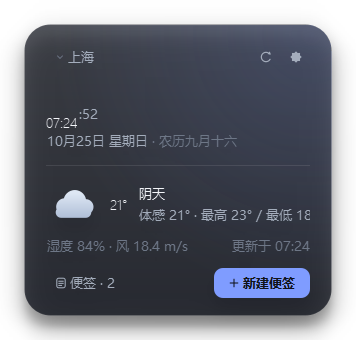
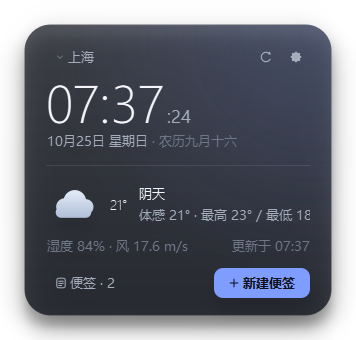
fix: align seconds with the clock baseline
Draw the clock digits and seconds with one shared baseline via a small custom widget instead of two QLabels, and release 1.0.1.

diff --git a/app/ui/clock_widget.py b/app/ui/clock_widget.py
@@ -3,14 +3,24 @@ from __future__ import annotations
 
 from datetime import datetime
 
-from PySide6.QtCore import QEasingCurve, QPoint, QPropertyAnimation, QSize, Qt, QTimer, Signal
-from PySide6.QtGui import QColor, QFont, QPainter, QPixmap
+from PySide6.QtCore import (
+    QEasingCurve,
+    QPoint,
+    QPointF,
+    QPropertyAnimation,
+    QSize,
+    Qt,
+    QTimer,
+    Signal,
+)
+from PySide6.QtGui import QColor, QFont, QFontMetrics, QPainter, QPixmap
 from PySide6.QtWidgets import (
     QGraphicsDropShadowEffect,
     QHBoxLayout,
     QLabel,
     QMenu,
     QPushButton,
+    QSizePolicy,
     QVBoxLayout,
     QWidget,
 )
@@ -49,6 +59,84 @@ def _font(size: float, weight: QFont.Weight = QFont.Normal,
     font.setPointSizeF(size)
     font.setWeight(weight)
     return font
+
+
+class TimeDisplay(QWidget):
+    """Big time plus seconds, drawn on one shared baseline.
+
+    Two QLabels cannot be reliably baseline-aligned: Qt aligns boxes, not
+    text baselines, so the smaller seconds label floats upward. Painting both
+    runs with the same baseline is exact and also bypasses app-level QSS fonts.
+    """
+
+    def __init__(self, palette: Palette, parent: QWidget | None = None) -> None:
+        super().__init__(parent)
+        self._palette = palette
+        self._main = "--:--"
+        self._seconds = ""
+        self._ampm = ""
+        self.setFixedHeight(58)
+        self.setSizePolicy(QSizePolicy.Fixed, QSizePolicy.Fixed)
+        self._resize_to_text()
+
+    def set_palette(self, palette: Palette) -> None:
+        self._palette = palette
+        self.update()
+
+    def set_time(self, main: str, seconds: str = "", ampm: str = "") -> None:
+        if (main, seconds, ampm) == (self._main, self._seconds, self._ampm):
+            return
+        self._main = main
+        self._seconds = seconds
+        self._ampm = ampm
+        self._resize_to_text()
+        self.update()
+
+    @staticmethod
+    def _fonts() -> tuple[QFont, QFont, QFont]:
+        return (
+            _font(40, QFont.Light, "Segoe UI Light"),
+            _font(14, QFont.Normal, "Segoe UI"),
+            _font(8.5, QFont.Medium),
+        )
+
+    def _content_width(self) -> float:
+        big, small, tiny = self._fonts()
+        width = QFontMetrics(big).horizontalAdvance(self._main)
+        if self._seconds:
+            width += 3 + QFontMetrics(small).horizontalAdvance(self._seconds)
+        if self._ampm:
+            width += 6 + QFontMetrics(tiny).horizontalAdvance(self._ampm)
+        return width
+
+    def _resize_to_text(self) -> None:
+        self.setFixedWidth(max(110, int(self._content_width()) + 2))
+
+    def sizeHint(self) -> QSize:
+        return QSize(max(110, int(self._content_width()) + 2), 58)
+
+    def paintEvent(self, event) -> None:  # noqa: N802 - Qt naming
+        painter = QPainter(self)
+        painter.setRenderHint(QPainter.Antialiasing, True)
+        big, small, tiny = self._fonts()
+        baseline = self.height() - 8
+        x = 0.0
+
+        painter.setFont(big)
+        painter.setPen(QColor(self._palette.text))
+        painter.drawText(QPointF(x, baseline), self._main)
+        x += QFontMetrics(big).horizontalAdvance(self._main)
+
+        if self._seconds:
+            painter.setFont(small)
+            painter.setPen(QColor(self._palette.sub))
+            painter.drawText(QPointF(x + 3, baseline), self._seconds)
+            x += 3 + QFontMetrics(small).horizontalAdvance(self._seconds)
+
+        if self._ampm:
+            painter.setFont(tiny)
+            painter.setPen(QColor(self._palette.faint))
+            painter.drawText(QPointF(x + 6, baseline), self._ampm)
 
 
 class ClockWidget(QWidget):
@@ -122,25 +210,8 @@ class ClockWidget(QWidget):
         time_row.setContentsMargins(0, 2, 0, 0)
         time_row.setSpacing(0)
 
-        self.time_label = QLabel("--:--")
-        self.time_label.setFont(_font(42, QFont.Light, "Segoe UI Light"))
-        self.time_label.setStyleSheet(f"color: {self.palette.text}; background: transparent;")
-        self.time_label.setFixedHeight(58)
-        self.time_label.setAlignment(Qt.AlignLeft | Qt.AlignBottom)
-        time_row.addWidget(self.time_label, 0, Qt.AlignBottom)
-
-        self.seconds_label = QLabel(":--")
-        self.seconds_label.setFont(_font(14, QFont.Normal, "Segoe UI"))
-        self.seconds_label.setStyleSheet(f"color: {self.palette.sub}; background: transparent;")
-        self.seconds_label.setAlignment(Qt.AlignLeft | Qt.AlignBottom)
-        self.seconds_label.setContentsMargins(2, 0, 0, 9)
-        time_row.addWidget(self.seconds_label, 0, Qt.AlignBottom)
-
-        self.ampm_label = QLabel("")
-        self.ampm_label.setFont(_font(8.5, QFont.Medium))
-        self.ampm_label.setStyleSheet(f"color: {self.palette.faint}; background: transparent;")
-        self.ampm_label.setContentsMargins(6, 0, 0, 12)
-        time_row.addWidget(self.ampm_label, 0, Qt.AlignBottom)
+        self.time_display = TimeDisplay(self.palette)
+        time_row.addWidget(self.time_display, 0, Qt.AlignBottom)
         time_row.addStretch(1)
         body.addLayout(time_row)
 
@@ -271,13 +342,13 @@ class ClockWidget(QWidget):
     def _tick(self) -> None:
         now = datetime.now()
         if self.cfg.use_24h:
-            self.time_label.setText(now.strftime("%H:%M"))
-            self.ampm_label.setText("")
+            main = now.strftime("%H:%M")
+            ampm = ""
         else:
-            self.time_label.setText(now.strftime("%I:%M").lstrip("0") or "12:00")
-            self.ampm_label.setText("上午" if now.hour < 12 else "下午")
-        self.seconds_label.setVisible(self.cfg.show_seconds)
-        self.seconds_label.setText(f":{now:%S}")
+            main = now.strftime("%I:%M").lstrip("0") or "12:00"
+            ampm = "上午" if now.hour < 12 else "下午"
+        seconds = f":{now:%S}" if self.cfg.show_seconds else ""
+        self.time_display.set_time(main, seconds, ampm)
 
         date_html = (
             f"<span style='color:{self.palette.sub}'>{now.month}月{now.day}日 "
@@ -362,9 +433,7 @@ class ClockWidget(QWidget):
         else:
             apply_shadow(self.card, palette)
 
-        self.time_label.setStyleSheet(f"color: {palette.text}; background: transparent;")
-        self.seconds_label.setStyleSheet(f"color: {palette.sub}; background: transparent;")
-        self.ampm_label.setStyleSheet(f"color: {palette.faint}; background: transparent;")
+        self.time_display.set_palette(palette)
         self.temp_label.setStyleSheet(f"color: {palette.text}; background: transparent;")
         self.condition_label.setStyleSheet(f"color: {palette.text}; background: transparent;")
         self.detail_label.setStyleSheet(f"color: {palette.sub}; background: transparent;")

diff --git a/app/paths.py b/app/paths.py
@@ -8,7 +8,7 @@ from pathlib import Path
 APP_NAME = "LuminaDesk"
 APP_DISPLAY_NAME = "Lumina Desk"
 APP_NAME_ZH = "暮光桌面"
-VERSION = "1.0.0"
+VERSION = "1.0.1"
 REPO_URL = "https://github.com/LilSeven/LuminaDesk"
 
 

diff --git a/docs/release-notes-1.0.1.md b/docs/release-notes-1.0.1.md
@@ -1,0 +1,12 @@
+# Lumina Desk 1.0.1
+
+## 修复
+
+- 秒数与时、分改为共享同一条文字基线，不再像上标一样浮在右上角。
+- 时间区域改用自绘文本，避免全局 QSS 字号覆盖导致的大小与对齐漂移；12 小时制的“上午/下午”也随基线对齐。
+
+## 下载
+
+- Windows 10/11 x64 单文件版：[LuminaDesk.exe](https://github.com/LilSeven/LuminaDesk/releases/download/v1.0.1/LuminaDesk.exe)
+
+数据仍保存在 `%APPDATA%\LuminaDesk`，覆盖旧版 exe 即可，配置与便签不受影响。
